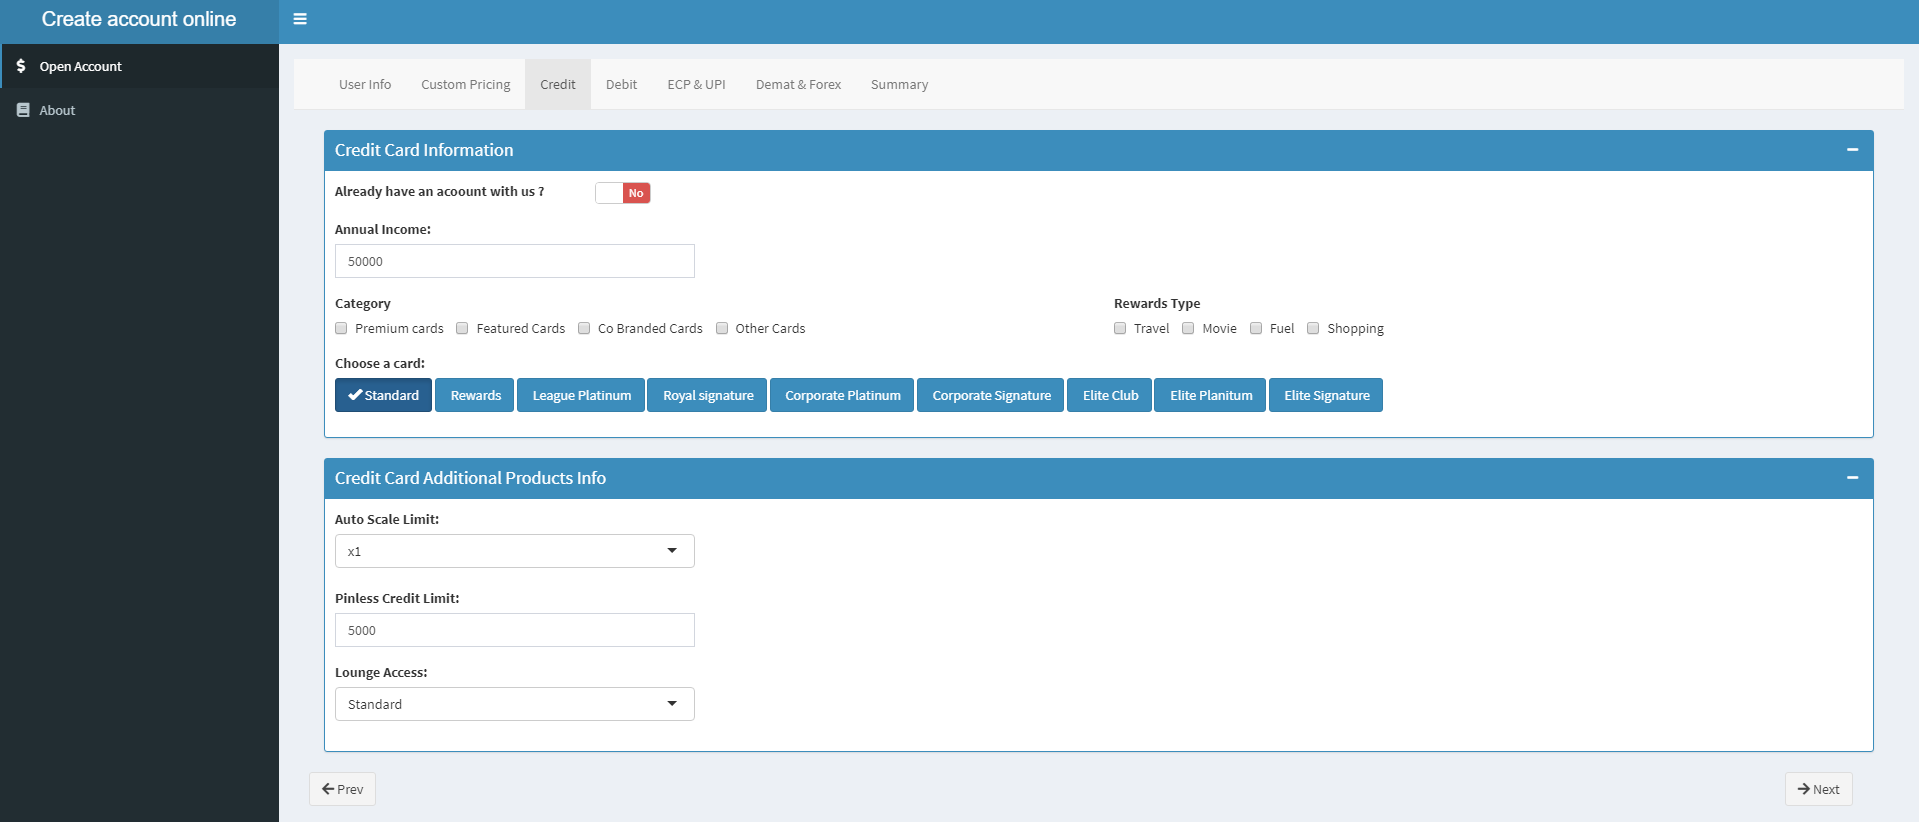
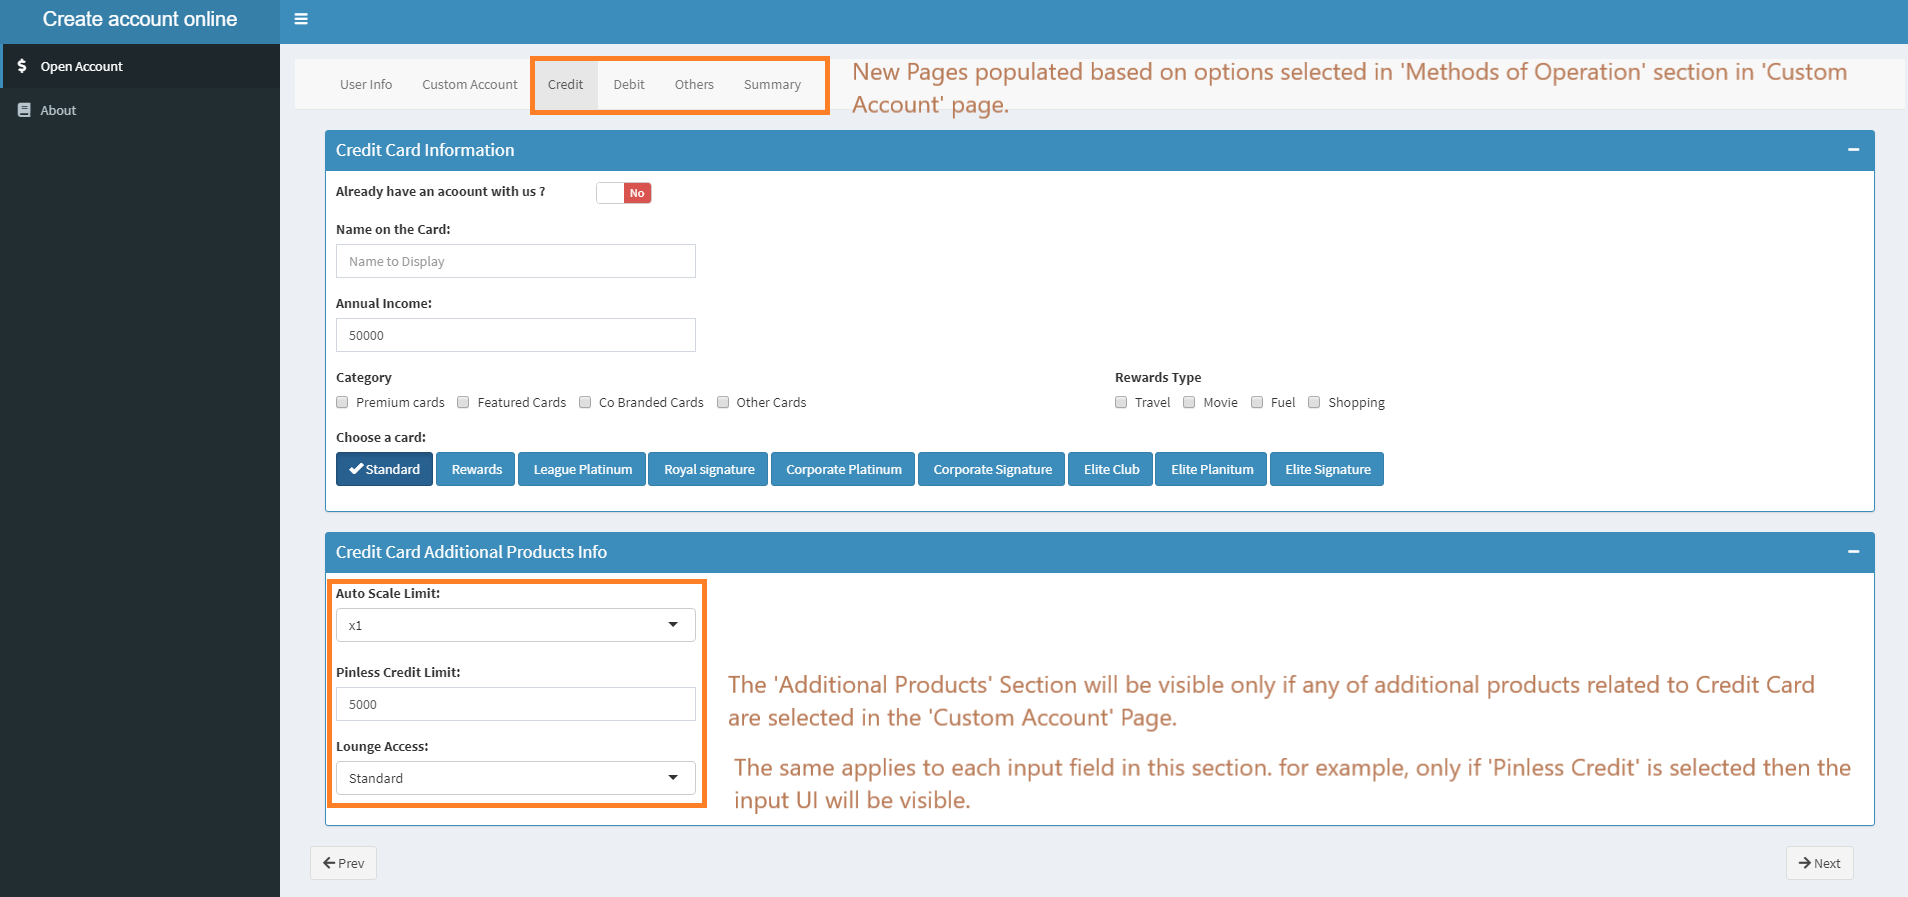
.

Changed region(s): [[0.0, 0.0, 1.0, 0.9732], [0.0, 0.1217, 0.0618, 0.1521], [0.1546, 0.9428, 0.1855, 0.9732]]

diff --git a/README.md b/README.md
@@ -29,8 +29,8 @@ This was possible by using:
 The next page to be loaded will be decided on the runtime based on the options selected.
 For example, in the below image 'Credit Card', we can see the tabs 'Credit', 'Debit', 'Others' that are being displayed.
 These pages will be displayed based on the selection we did in the 'Home Page - Custom'.
-* If we selected only 'Credit', then we would have seen that only the 'Credit' page is visible.
-* If we select 'Credit' & 'Debit', then we would have both 'Credit' & 'Debit' pages in the nav bar.
+* If we selected only 'Credit', then only the 'Credit' page is shown in the nav bar.
+* If we select 'Credit' & 'Debit', then both 'Credit' & 'Debit' pages are shown in the nav bar.
 
 This is achieved by using JS selectors & functions(showElement/ hideElement) available in shinyjs.
 
